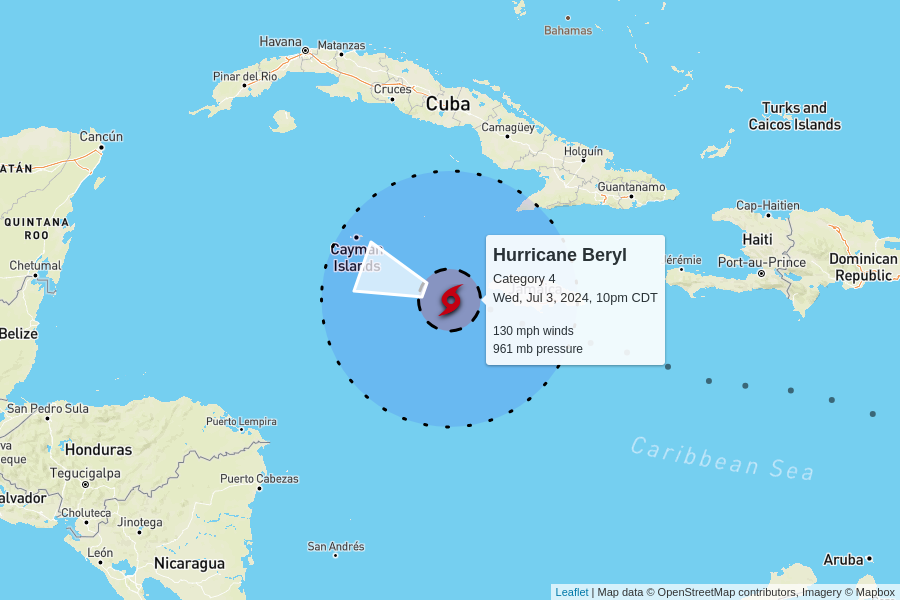
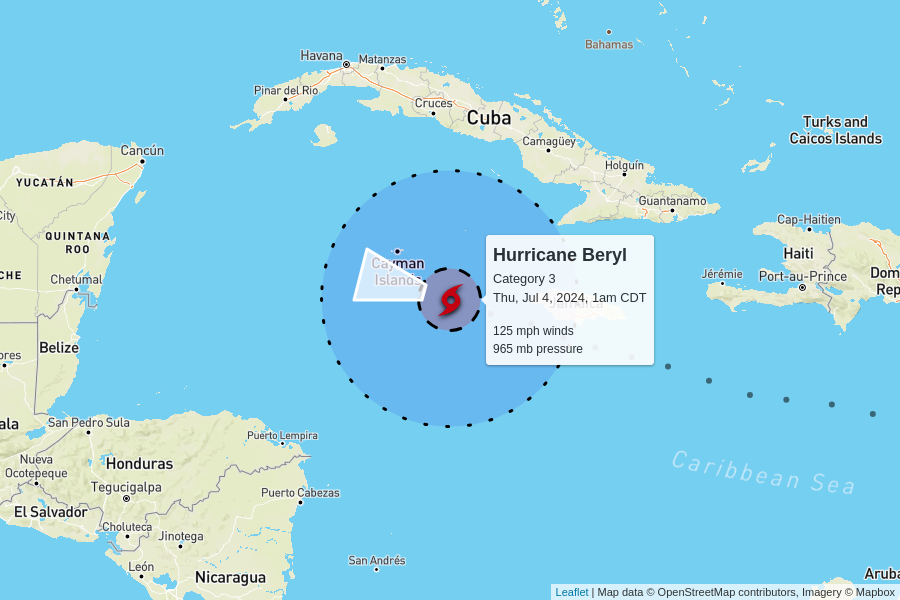
automatic update

diff --git a/docs/index.html b/docs/index.html
@@ -99,10 +99,10 @@
 
     <table>
       <tr>
-        <td colspan="6" class="storm category-4" >
+        <td colspan="6" class="storm category-3" >
           <h2>
-            Hurricane Beryl - Category 4
-            <p class="updated">last updated <span data-time>2024-07-04T03:00:00.000Z</span></p>
+            Hurricane Beryl - Category 3
+            <p class="updated">last updated <span data-time>2024-07-04T06:00:00.000Z</span></p>
           </h2>
         </td>
       </tr>
@@ -117,12 +117,12 @@
       </tr>
       <tr>
         <td class="spacer"></td>
-        <td>130 mph<br>0 mph since last update</td>
-        <td>961 mb<br>+1 mb since last update</td>
+        <td>125 mph<br>-5 mph since last update</td>
+        <td>965 mb<br>+4 mb since last update</td>
         <td>
           21 mph to the west-northwest
           <br/>
-          <span style="display: inline-block; font-size: 1.5em; transform: rotate(290deg);">↑</span>
+          <span style="display: inline-block; font-size: 1.5em; transform: rotate(285deg);">↑</span>
         </td>
         <td><a href="https://raw.githubusercontent.com/mgwalker/atlantic-hurricanes/main/data/csv/AL022024.csv">AL022024.csv</a></td>
         <td><a href="https://www.nhc.noaa.gov/archive/2024/BERYL.shtml?">NHC advisories</a></td>
